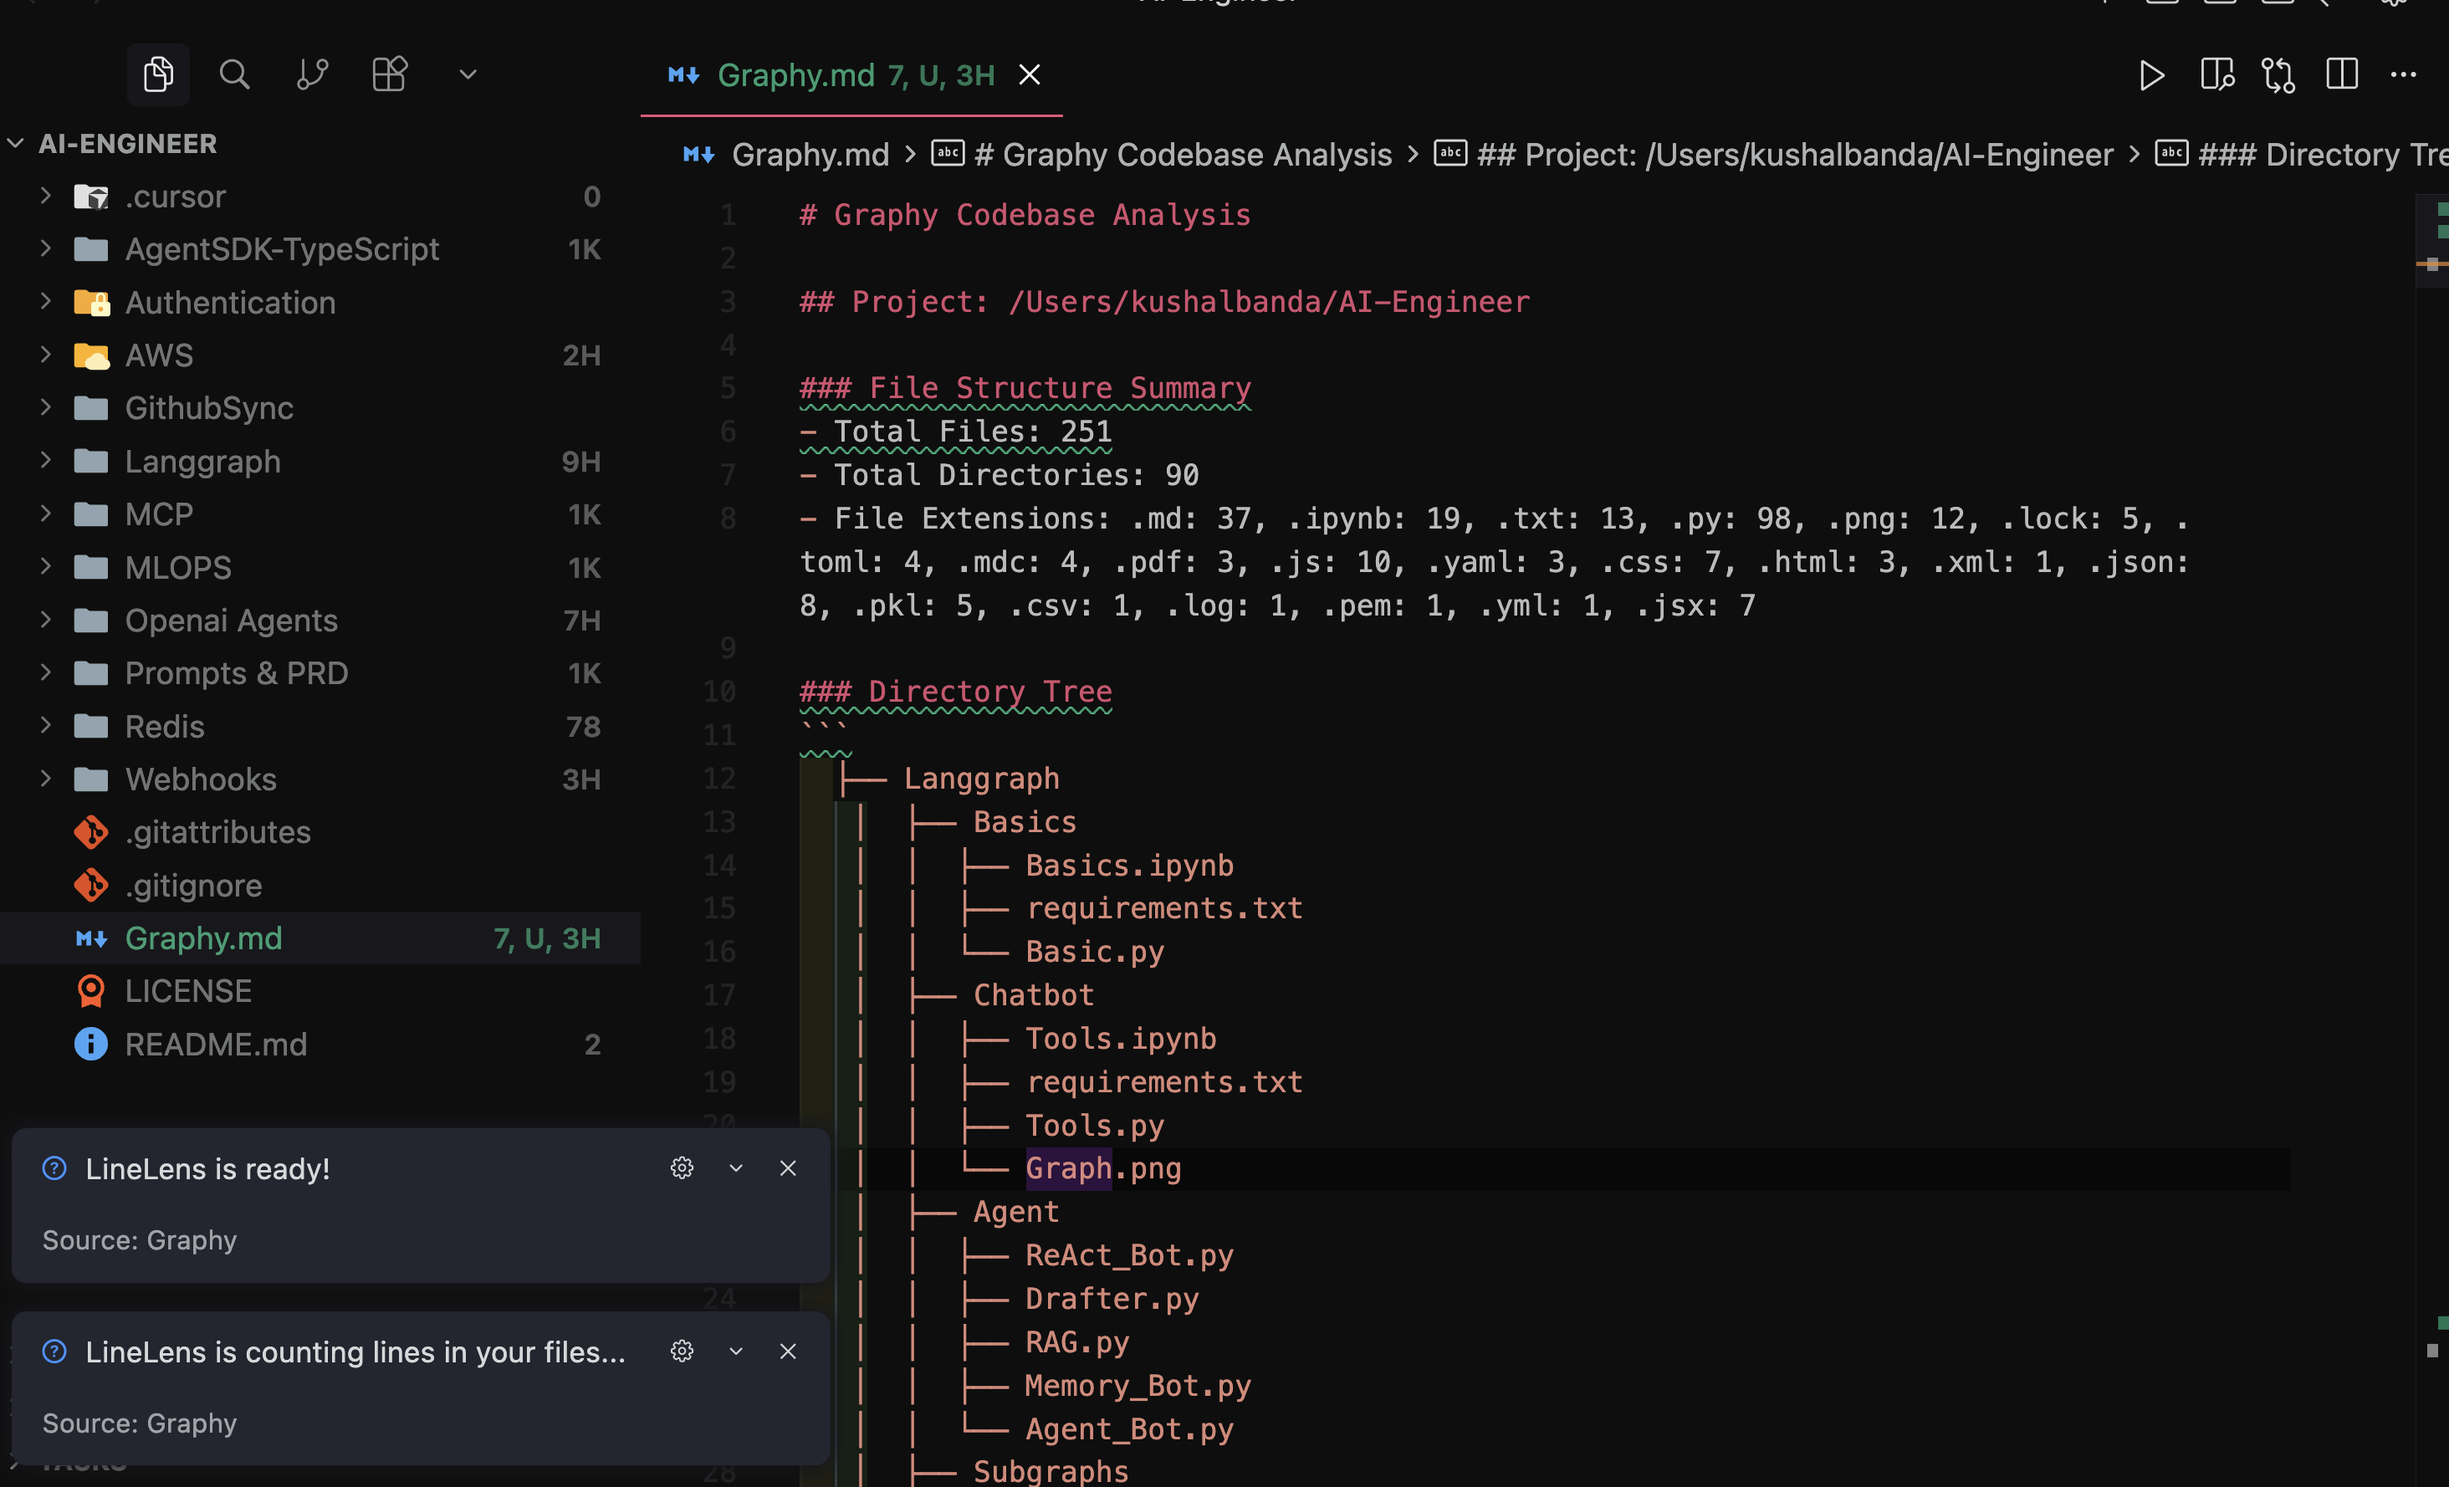
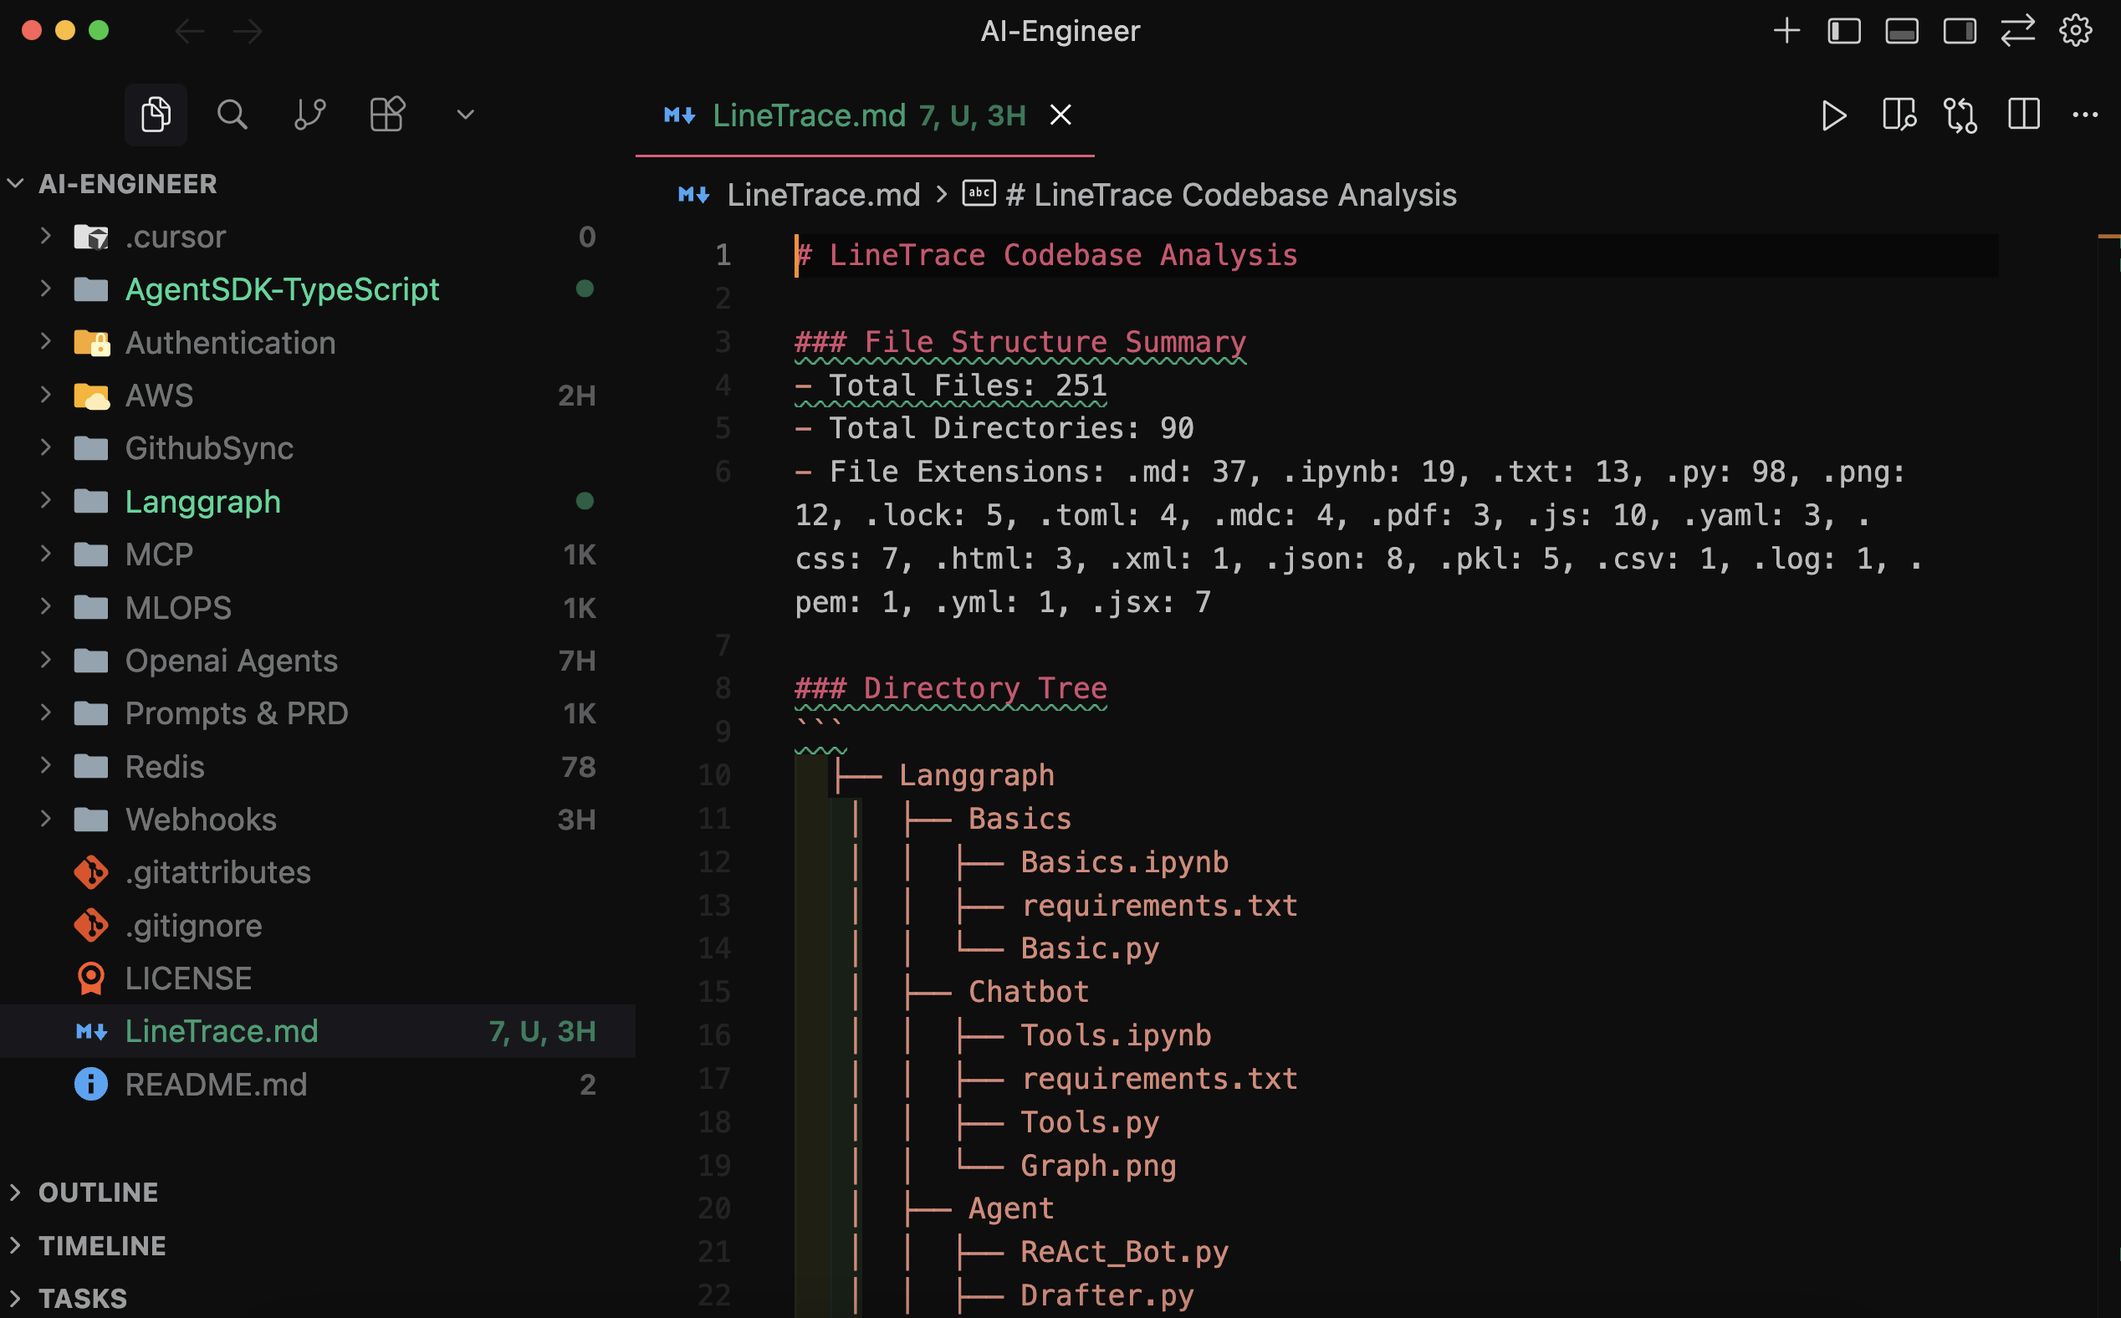
chore: update README and package version, remove unnecessary information messages

diff --git a/graphy/client/linelens/LineLens.ts b/graphy/client/linelens/LineLens.ts
@@ -221,8 +221,6 @@ async function initializeDecorations(provider: LineLensDecorationProvider) {
     return;
   }
 
-  vscode.window.showInformationMessage('LineLens is counting lines in your files...');
-  vscode.window.setStatusBarMessage('LineLens: Initializing...', 2000);
 
   setTimeout(async () => {
     for (const folder of workspaceFolders) {
@@ -251,7 +249,6 @@ async function initializeDecorations(provider: LineLensDecorationProvider) {
     }
 
     isInitializing = false;
-    vscode.window.showInformationMessage('LineLens is ready!');
   }, DEFAULT_CONFIG.initialScanDelay);
 }
 
@@ -264,7 +261,6 @@ async function processBatchesWithDelay(
   for (let i = 0; i < files.length; i += batchSize) {
     const batch = files.slice(i, i + batchSize);
     if (i % 1000 === 0 && i > 0) {
-      vscode.window.setStatusBarMessage(`LineLens: Processing files (${i}/${files.length})...`, 2000);
     }
     provider.refresh(batch, { invalidate: true });
     await new Promise((resolve) => setTimeout(resolve, delayMs));

diff --git a/graphy/client/commands/GenerateLineTraceCommand.ts b/graphy/client/commands/GenerateLineTraceCommand.ts
@@ -33,8 +33,8 @@ export class GenerateLineTraceCommand {
 
                 progress.report({ message: "Analysis complete!", increment: 100 });
             });
+            vscode.window.showInformationMessage('LineTrace complete.');
 
-            vscode.window.showInformationMessage('LineTrace analysis completed successfully!');
         } catch (error) {
             console.error('Error generating LineTrace analysis:', error);
             vscode.window.showErrorMessage(`Error generating LineTrace analysis: ${error instanceof Error ? error.message : 'Unknown error'}`);

diff --git a/graphy/client/extension.ts b/graphy/client/extension.ts
@@ -12,8 +12,6 @@ export function activate(context: vscode.ExtensionContext) {
     );
 
     context.subscriptions.push(disposable);
-    vscode.window.showInformationMessage('LineTrace extension loaded! Use "LineTrace: Generate Codebase Analysis" command.');
-
     registerLineLens(context);
 }
 

diff --git a/README.md b/README.md
@@ -17,8 +17,7 @@ LineTrace scans the first workspace folder, builds a lightweight structural summ
 
 ## Screenshot
 
-![LineTrace with LineLens line counts](assets/Full.png)
-
+![LineTrace with LineLens line counts](graphy/assets/Full.png)
 
 ## Usage
 

diff --git a/graphy/README.md b/graphy/README.md
@@ -19,7 +19,6 @@ LineTrace scans the first workspace folder, builds a lightweight structural summ
 
 ![LineTrace with LineLens line counts](assets/Full.png)
 
-
 ## Usage
 
 Once installed, open a folder in VS Code and run the command:
